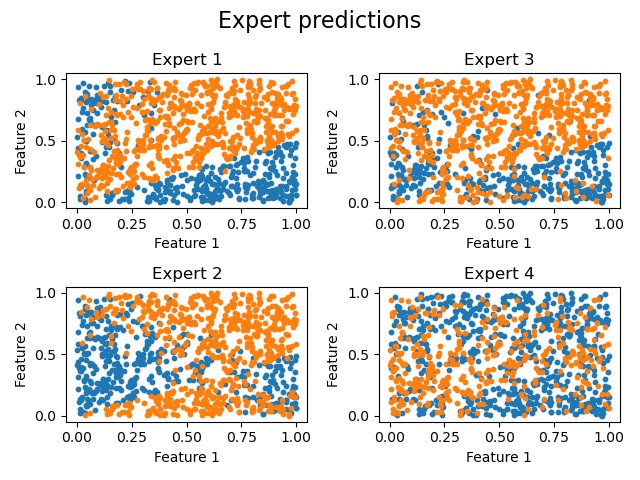
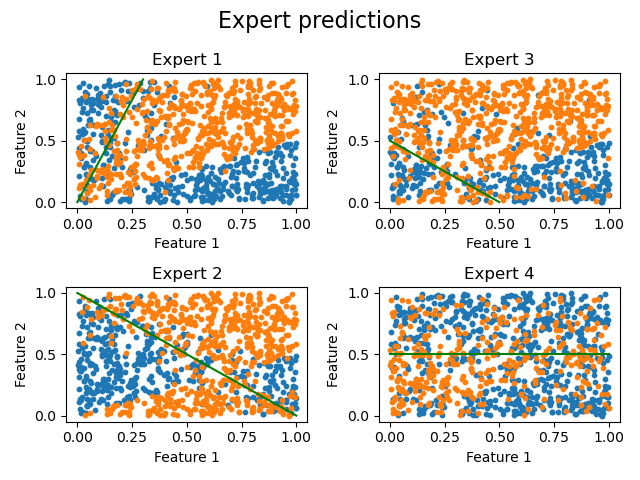
Add classification boundary

diff --git a/presentation_plots.py b/presentation_plots.py
@@ -8,7 +8,7 @@ x, y = generate_data(1000, a_real)
 x = x[:, 0:-1]
 v_real = np.array(
     [
-        [10, -3, 1],
+        [10, -3, 0],
         [10, 10, -10],
         [4, 4, -2],
         [0, -4, 2],
@@ -20,6 +20,7 @@ x_1 = np.column_stack((x, np.ones(x.shape[0])))
 
 plt.figure()
 plot_bin_datapoints(x, y, plt.gca(), marker="o", markersize=20)
+plot_line(a_real, plt.gca(), color="green")
 plt.gcf().suptitle("Ground truth", fontsize=16)
 plt.gca().set_xlabel("Feature 1")
 plt.gca().set_ylabel("Feature 2")
@@ -30,6 +31,7 @@ annotator_inds = [(0, 0), (1, 0), (0, 1), (1, 1)]
 fig, axs = plt.subplots(2, 2)
 for i, ind in enumerate(annotator_inds):
     plot_bin_datapoints(x, advice[:, i], axs[*ind], marker="o")
+    plot_line(v_real[i, :], axs[*ind], color="green")
     axs[*ind].set_title(f"Expert {i + 1}")
     axs[*ind].set_xlabel("Feature 1")
     axs[*ind].set_ylabel("Feature 2")
@@ -57,6 +59,9 @@ plt.figure()
 x_1 = np.column_stack((x, np.ones(x.shape[0])))
 pred_confidence = create_color_classifier(x_1, a, threshold=0.5)
 plot_bin_datapoints(x, pred_confidence, plt.gca(), markersize=20)
+plot_line(a_real, plt.gca(), color="green")
+plot_line(a, plt.gca(), color="red")
+
 plt.gcf().suptitle("Estimated ground truth", fontsize=16)
 plt.gca().set_xlabel("Feature 1")
 plt.gca().set_ylabel("Feature 2")
@@ -67,6 +72,8 @@ fig, axs = plt.subplots(2, 2)
 for i, ind in enumerate(annotator_inds):
     conf = create_color_annotator(x_1, pred_confidence, v[i, :], 0.5)
     plot_bin_datapoints(x, conf, axs[*ind])
+    plot_line(v_real[i, :], axs[*ind], color="green")
+    plot_line(v[i, :], axs[*ind], color="red")
     axs[*ind].set_title(f"Expert {i + 1}")
     axs[*ind].set_xlabel("Feature 1")
     axs[*ind].set_ylabel("Feature 2")

diff --git a/plotting.py b/plotting.py
@@ -49,3 +49,14 @@ def create_color_annotator(x, y, w, threshold=False):
     if threshold:
         return vec_int(conf >= threshold)
     return conf
+
+
+def plot_line(w, ax, color="red"):
+    x_start = 0
+    x_end = (
+        min(1, abs(-(w[1] + w[2]) / w[0]))
+        if w[0] * w[1] < 0
+        else min(1, abs(-(w[2]) / w[0]))
+    )
+    x = np.linspace(x_start, x_end, 1000)
+    ax.plot(x, -(w[0] * x + w[2]) / w[1], c=color)
